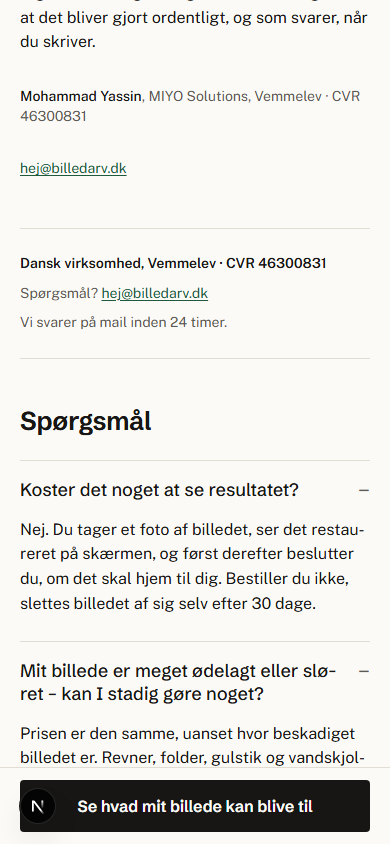
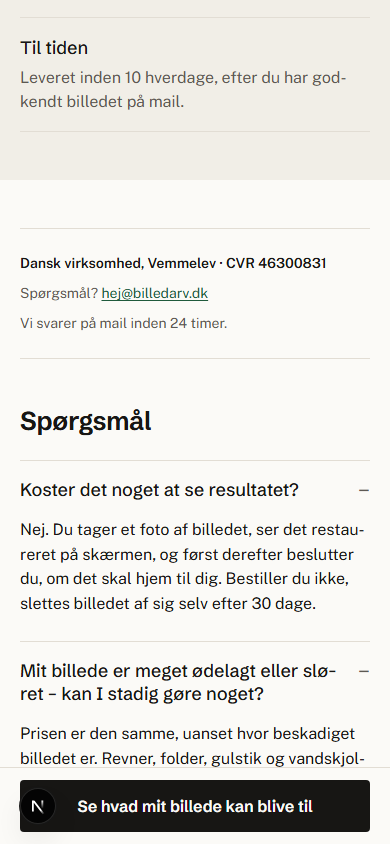
Fading before/after pairs, announcement bar and promo boxes for the launch offer
Hero and example grid switch between damaged and restored by themselves
(Compare fade mode, opening on the original in the hero, one solid Før/Efter
label) instead of a drag slider; the slider stays on the order page. The launch
offer gets an announcement bar on the landing and order pages and a promo box
beside the hero button and the price.

diff --git a/components/Compare.tsx b/components/Compare.tsx
@@ -7,6 +7,10 @@ export type CompareMode = 'lens' | 'hold' | 'fade';
 type Props = {
   before: string | Source; after: string | Source; alt: string; aspect: string;
   mode: CompareMode; beforeLabel?: string; afterLabel?: string; className?: string;
+  /** fade: open on the damaged original, so the first thing that happens on screen is the repair */
+  initialBefore?: boolean;
+  /** fade: milliseconds between switches */
+  interval?: number;
 };
 
 const toSource = (s: string | Source): Source => (typeof s === 'string' ? { src: s } : s);
@@ -30,10 +34,10 @@ function Pic({ s, className }: { s: Source; className: string }) {
  * - hold: press to see the original — feedback on pointer-down, 120 ms in, 260 ms back out; space toggles.
  * - fade: a slow dissolve every 4 s, paused off-screen and while touched; hold-like under reduced motion.
  */
-export default function Compare({ before, after, alt, aspect, mode, beforeLabel = 'Før', afterLabel = 'Efter', className = '' }: Props) {
+export default function Compare({ before, after, alt, aspect, mode, beforeLabel = 'Før', afterLabel = 'Efter', className = '', initialBefore = false, interval = 3200 }: Props) {
   const ref = useRef<HTMLDivElement>(null);
   const b = toSource(before), a = toSource(after);
-  const [showBefore, setShowBefore] = useState(false);
+  const [showBefore, setShowBefore] = useState(mode === 'fade' && initialBefore);
   const [paused, setPaused] = useState(false);
   const [reduce, setReduce] = useState(false);
   const [radius, setRadius] = useState(120);
@@ -63,9 +67,9 @@ export default function Compare({ before, after, alt, aspect, mode, beforeLabel 
     let visible = false;
     const io = new IntersectionObserver(([e]) => { visible = e.isIntersecting; });
     io.observe(el);
-    const t = setInterval(() => { if (visible && !paused && document.visibilityState === 'visible') setShowBefore((v) => !v); }, 4000);
+    const t = setInterval(() => { if (visible && !paused && document.visibilityState === 'visible') setShowBefore((v) => !v); }, interval);
     return () => { io.disconnect(); clearInterval(t); };
-  }, [mode, paused, reduce]);
+  }, [mode, paused, reduce, interval]);
 
   /** Keeps the whole circle inside the photograph: the centre can come no closer to an edge than its radius. */
   const clamp = (x: number, y: number) => {
@@ -201,17 +205,19 @@ export default function Compare({ before, after, alt, aspect, mode, beforeLabel 
     }
   };
 
-  const hint = mode === 'lens' ? 'Tryk eller træk luppen' : holdLike ? 'Hold for at se før' : 'Overtoner langsomt · rør for at holde';
+  // fade needs no instruction: the picture changes by itself and the label says which side is showing
+  const hint = mode === 'lens' ? 'Tryk eller træk luppen' : holdLike ? 'Hold for at se før' : '';
+  const described = hint || 'Skifter selv mellem før og efter';
   return (
     <div ref={ref} className={`cmp cmp-${mode}${showBefore ? ' show-before' : ''} ${className}`.trim()} style={{ aspectRatio: aspect, ['--lx' as string]: '50%', ['--ly' as string]: '42%', ['--r' as string]: `${radius}px` }}
       onPointerDown={onPointerDown} onPointerMove={onPointerMove} onPointerUp={release} onPointerCancel={release} onPointerLeave={(e) => { if (mode !== 'lens') release(e); }}
-      onKeyDown={onKey} tabIndex={0} role="img" aria-label={`${alt}. ${hint}.`}>
+      onKeyDown={onKey} tabIndex={0} role="img" aria-label={`${alt}. ${described}.`}>
       <Pic s={a} className="after" />
       <Pic s={b} className="before" />
       {mode === 'lens' && <div className="lens-ring" aria-hidden onPointerDown={onRingDown} onPointerMove={onRingMove} onPointerUp={onRingUp} onPointerCancel={onRingUp} />}
       <span className="lbl before" aria-hidden>{beforeLabel}</span>
       <span className="lbl after" aria-hidden>{afterLabel}</span>
-      <span className="hint" aria-hidden>{hint}</span>
+      {hint && <span className="hint" aria-hidden>{hint}</span>}
     </div>
   );
 }

diff --git a/app/page.tsx b/app/page.tsx
@@ -1,7 +1,8 @@
 import { copy } from '@/lib/copy';
 import { getExamples, type Example } from '@/lib/examples';
 import { exampleSrcSet, GRID_SIZES, HERO_SIZES } from '@/lib/images';
-import BeforeAfter, { type Source } from '@/components/BeforeAfter';
+import type { Source } from '@/components/BeforeAfter';
+import Compare from '@/components/Compare';
 import ColourExample from '@/components/ColourExample';
 import Framed from '@/components/Framed';
 import UploadFlow from '@/components/UploadFlow';
@@ -46,6 +47,7 @@ export default async function Page() {
 
   return (
     <>
+      {c.campaign.active && <div className="announce"><span>{c.campaign.bar}</span></div>}
       <header className="nav wrap">
         <div className="container nav-row">
           <Wordmark />
@@ -65,7 +67,7 @@ export default async function Page() {
             <div className="hero-copy">
               <h1>{c.hero.h1}</h1>
               <p className="lead">{c.hero.sub}</p>
-              {c.campaign.active && <p className="deadline">{c.campaign.short}</p>}
+              {c.campaign.active && <div className="promo"><b>{c.campaign.title}</b><span>{c.campaign.body}</span><span className="caption">{c.campaign.terms}</span></div>}
               {jul && c.hero.eyebrow && <p className="deadline">{c.hero.eyebrow}</p>}
               <div className="hero-cta">
                 <OpenFlowButton>{c.hero.cta}</OpenFlowButton>
@@ -74,7 +76,7 @@ export default async function Page() {
             </div>
             {hero && (
               <figure className="hero-proof">
-                <BeforeAfter before={src(hero, 'before', HERO_SIZES)} after={src(hero, 'after', HERO_SIZES)} alt={`Før og efter: ${hero.caption.replace(/\.$/, '')}`} aspect="4 / 5" reveal priority rest={50} />
+                <Compare mode="fade" initialBefore before={src(hero, 'before', HERO_SIZES)} after={src(hero, 'after', HERO_SIZES)} alt={`Før og efter: ${hero.caption.replace(/\.$/, '')}`} aspect="4 / 5" />
                 <figcaption><Caption text={hero.caption} /></figcaption>
               </figure>
             )}
@@ -96,7 +98,7 @@ export default async function Page() {
                     <figure key={e.id}>
                       {e.colour
                         ? <ColourExample before={src(e, 'before', GRID_SIZES)} after={src(e, 'after', GRID_SIZES)} colour={e.colour} alt={alt} aspect={aspect} />
-                        : <BeforeAfter before={src(e, 'before', GRID_SIZES)} after={src(e, 'after', GRID_SIZES)} alt={alt} aspect={aspect} />}
+                        : <Compare mode="fade" before={src(e, 'before', GRID_SIZES)} after={src(e, 'after', GRID_SIZES)} alt={alt} aspect={aspect} />}
                       <figcaption><Caption text={e.caption} /></figcaption>
                     </figure>
                   );
@@ -171,7 +173,7 @@ export default async function Page() {
                   <span className="caption">{c.offer.priceNote}</span>
                 </div>
                 {c.offer.anchor && <p className="caption" style={{ maxWidth: '30em' }}>{c.offer.anchor}</p>}
-                {c.campaign.active && <p className="deadline">{c.campaign.line}</p>}
+                {c.campaign.active && <div className="promo"><b>{c.campaign.title}</b><span>{c.campaign.body}</span><span className="caption">{c.campaign.terms}</span></div>}
                 {c.offer.deadline && <p className="deadline">{c.offer.deadline}{c.hero.countdown ? ` ${c.hero.countdown}.` : ''}</p>}
               </div>
               <ul className="guarantee o-guarantee">

diff --git a/app/landing.css b/app/landing.css
@@ -127,3 +127,25 @@
 .label > div:last-child { border-bottom: 1px solid var(--hairline); }
 .label dt { color: var(--ink-2); font-size: var(--fs-small); padding-top: 3px; }
 .label dd { margin: 0; }
+
+/* Announcement bar — the launch offer above the header, the way a shop says it */
+.announce { background: var(--accent); color: var(--accent-ink); text-align: center; padding: var(--s2) var(--gutter); font-size: var(--fs-small); line-height: 1.35; font-weight: 600; }
+.announce span { display: inline-block; max-width: 40em; }
+
+/* Promo box — the offer where the decision is made: beside the button, beside the price */
+.promo { display: grid; gap: var(--s1); padding: var(--s4) var(--s4); background: var(--paper-2); border-radius: 6px; max-width: 30em; }
+.promo b { font-family: var(--display); font-weight: 650; font-size: var(--fs-lead); color: var(--accent); letter-spacing: -0.01em; }
+.promo > span { font-size: var(--fs-body); }
+.promo .caption { padding-top: var(--s1); }
+
+/* Fading pairs on the landing page: the picture changes by itself, one word says which side is showing */
+.hero-proof .cmp { border-radius: 6px; box-shadow: var(--shadow-object); }
+.hero-proof .cmp img { object-position: 50% 28%; }
+.ex-grid .cmp { border-radius: 4px; }
+.cmp-fade .lbl { left: var(--s3); right: auto; bottom: var(--s3); font-size: 15px; padding: 6px 12px; background: var(--ink); color: var(--paper); border-radius: 4px; transition: opacity 320ms ease-out; }
+.cmp-fade .lbl.after { opacity: 1; }
+.cmp-fade .lbl.before { opacity: 0; }
+.cmp-fade.show-before .lbl.before { opacity: 1; }
+.cmp-fade.show-before .lbl.after { opacity: 0; }
+.cmp-fade .lbl.after, .cmp-fade .lbl.before { right: auto; }
+@media (max-width: 479px) { .promo { padding: var(--s3) var(--s4); gap: 2px; } .promo > span { font-size: 15px; } .promo .caption { font-size: 13px; } .promo b { font-size: var(--fs-body); } }

diff --git a/components/ColourExample.tsx b/components/ColourExample.tsx
@@ -1,13 +1,14 @@
 'use client';
 import { useState } from 'react';
-import BeforeAfter, { type Source } from './BeforeAfter';
+import type { Source } from './BeforeAfter';
+import Compare from './Compare';
 
-/** A wipe pair whose "after" can be switched to the colourised version — the same toggle the customer gets. */
+/** A fading pair whose "after" can be switched to the colourised version — the same toggle the customer gets. */
 export default function ColourExample({ before, after, colour, alt, aspect }: { before: Source; after: Source; colour: string; alt: string; aspect: string }) {
   const [col, setCol] = useState(false);
   return (
     <div style={{ display: 'grid', gap: 'var(--s2)' }}>
-      <BeforeAfter before={before} after={col ? { src: colour } : after} alt={alt} aspect={aspect} afterLabel={col ? 'Efter, farve' : 'Efter'} />
+      <Compare mode="fade" before={before} after={col ? { src: colour } : after} alt={alt} aspect={aspect} afterLabel={col ? 'Efter, farve' : 'Efter'} />
       <div style={{ display: 'flex', gap: 'var(--s4)', minHeight: 44, alignItems: 'center' }}>
         <button type="button" className="link-btn" aria-pressed={col} onClick={() => setCol((v) => !v)}>{col ? 'Vis i sort-hvid' : 'Vis i farver'}</button>
       </div>

diff --git a/lib/copy.ts b/lib/copy.ts
@@ -165,6 +165,10 @@ export function copy(season: Season = currentSeason()) {
       until: kampagneDato,
       line: `Lanceringstilbud til og med ${kampagneDato}: ét ekstra eksemplar af billedet med i pakken – til den, der også husker det. Værdi ${formatDkk(EXTRA_PRINT_DKK[format])}`,
       short: `Lanceringstilbud: ekstra eksemplar med i pakken til og med ${kampagneDato}.`,
+      bar: `Lanceringstilbud: ekstra eksemplar med i pakken – værdi ${formatDkk(EXTRA_PRINT_DKK[format])} · til og med ${kampagneDato}`,
+      title: `Lanceringstilbud – værdi ${formatDkk(EXTRA_PRINT_DKK[format])}`,
+      body: `Bestil til og med ${kampagneDato}, og få ét ekstra eksemplar af dit billede med i pakken. Samme størrelse, samme ramme – til den, der også husker det.`,
+      terms: 'Tilføjes med ét tryk på bestillingssiden. Gælder det første ekstra eksemplar.',
       extra: `Lanceringstilbud til og med ${kampagneDato}: det første ekstra eksemplar er med i pakken uden beregning.`,
     },
     hvem: { h2: 'Hvem står bag' },

diff --git a/components/SiteHeader.tsx b/components/SiteHeader.tsx
@@ -1,13 +1,16 @@
 import Wordmark from './Wordmark';
 
 /** The header every page after the landing page shares: the wordmark, and one short line on the right. Styles: .nav in app/landing.css. */
-export default function SiteHeader({ note }: { note?: string }) {
+export default function SiteHeader({ note, bar }: { note?: string; bar?: string }) {
   return (
+    <>
+    {bar && <div className="announce"><span>{bar}</span></div>}
     <header className="nav wrap">
       <div className="container nav-row">
         <Wordmark />
         {note && <div className="nav-right"><span className="caption">{note}</span></div>}
       </div>
     </header>
+    </>
   );
 }

diff --git a/app/p/[id]/page.tsx b/app/p/[id]/page.tsx
@@ -34,7 +34,7 @@ export default async function PreviewPage({ params, searchParams }: { params: Pr
       <link rel="preload" as="image" href={payload.original} />
       <link rel="preload" as="image" href={payload.preview} />
       {/* the price lives in the bill on this page; the header carries the promise instead */}
-      <SiteHeader note={c.preview.headNote} />
+      <SiteHeader note={c.preview.headNote} bar={c.campaign.active ? c.campaign.bar : undefined} />
       <main className="wrap">
         <PreviewPanel c={c} data={payload} cancelled={cancelled === '1'} paid={paid} token={t} />
       </main>

diff --git a/DECISIONS.md b/DECISIONS.md
@@ -413,3 +413,5 @@ One line of reasoning per non-obvious decision. Newest at the bottom.
 - **Founder section without a portrait (2026-09-07).** The owner asked for "Hvem står bag" to be filled in. Three lines in his voice were written for him to edit (`assets/founder/founder.md`), and the section now renders on the lines, the name, the company and the CVR; a portrait joins when a real one is dropped in. A generated face for a real, named seller was declined: that is a fake identity photo, not a placeholder. `fornavn()` still needs the portrait, so the copy says "vi" until then.
 - **Wall photograph for the mockup.** `public/mockup/wall.jpg` is a generated backdrop (Higgsfield nano_banana_pro, 2 credits): an empty warm off-white wall with daylight from the left and an oak floor edge, no people, no objects. Provenance is embedded in the file's EXIF description. The frame and the customer's photograph are composited on it by `lib/restoration/mockup.ts` as before.
 - **Company-first, no founder section (2026-09-07).** The owner does not want to appear on the site. The "Hvem står bag" section is removed; the contact strip, footer and mail sender carry the company (MIYO Solutions, CVR). The person is named only on /handelsbetingelser and /privatliv, where e-handelsloven and GDPR require the responsible trader. "Og sådan hænger det hos dig" on the order page became "Sådan ser det ud i ramme": the wall is a generic backdrop, not the customer's room, and the mockup itself stays because a framed preview is the category's standard product shot. Street address deferred by the owner; the production build still passes on postcode and town, the legal requirement stands.
+- **Fading pairs instead of sliders on the landing page (2026-09-07).** The owner: older visitors do not understand a drag handle. Hero and example grid now use `Compare` in fade mode, which already existed (dissolve every 3.2 s, opens on the damaged original in the hero, pauses off-screen, while touched and when the tab is hidden; hold-to-compare under reduced motion), with one solid label that reads "Før" or "Efter". The wipe slider stays on the order page for the customer's own picture. ANTI_SLOP F4 amended by the owner: the loop is comparison content, not decoration.
+- **Launch offer made visible (2026-09-07).** Owner: the offer must sell. A Shopify-style announcement bar above the header on the landing and order pages, and a promo box (title, one sentence, terms) beside the hero button and beside the price. Still a real, dated benefit; no reference price, no countdown.
